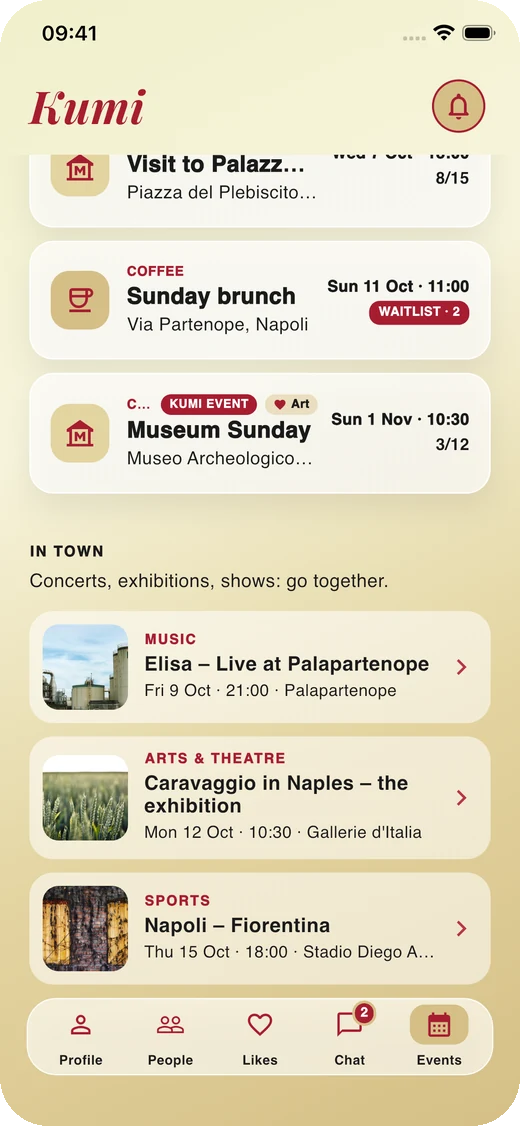
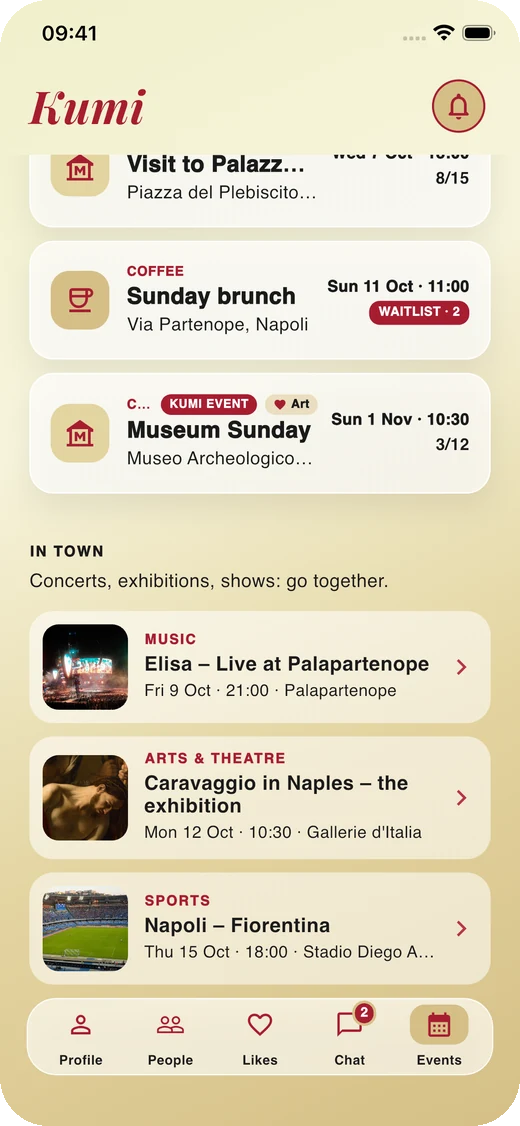
Sito: lo scatto «In città» con foto vere e coerenti (concerto, quadro di Caravaggio, stadio) al posto dei segnaposto; la demo usa le stesse foto

Changed region(s): [[0.0615, 0.5284, 0.2462, 0.746], [0.0615, 0.7771, 0.2462, 0.8703]]

diff --git a/index.html b/index.html
@@ -83,7 +83,7 @@
         <p class="note">In arrivo su iPhone e Android.</p>
       </div>
       <div class="phone glow">
-        <img src="assets/01_persone.webp?v=3" alt="La schermata Persone di Kumi: il profilo di Aurora, 27 anni, con il 92% di affinità" width="520" height="1126" fetchpriority="high">
+        <img src="assets/01_persone.webp?v=4" alt="La schermata Persone di Kumi: il profilo di Aurora, 27 anni, con il 92% di affinità" width="520" height="1126" fetchpriority="high">
       </div>
     </div>
   </section>
@@ -104,51 +104,51 @@
       <div class="shots">
         <div class="screens" aria-label="Le schermate di Kumi" tabindex="0">
           <figure class="screen">
-            <div class="phone strip"><img src="assets/01_persone.webp?v=3" alt="La schermata Persone: il profilo di Aurora con il 92% di affinità" width="520" height="1126" loading="lazy"></div>
+            <div class="phone strip"><img src="assets/01_persone.webp?v=4" alt="La schermata Persone: il profilo di Aurora con il 92% di affinità" width="520" height="1126" loading="lazy"></div>
             <figcaption><strong>Persone</strong>Profili della tua città con una percentuale di affinità, calcolata su interessi e modo di essere.</figcaption>
           </figure>
           <figure class="screen">
-            <div class="phone strip"><img src="assets/02_dettaglio.webp?v=3" alt="Il profilo di Aurora aperto: verificata, 92% affine, bio e interessi" width="520" height="1126" loading="lazy"></div>
+            <div class="phone strip"><img src="assets/02_dettaglio.webp?v=4" alt="Il profilo di Aurora aperto: verificata, 92% affine, bio e interessi" width="520" height="1126" loading="lazy"></div>
             <figcaption><strong>Il profilo</strong>Tocca una card per leggere bio e interessi. La spunta dice che è verificata.</figcaption>
           </figure>
           <figure class="screen">
-            <div class="phone strip"><img src="assets/03_like.webp?v=3" alt="La schermata Like: le ragazze che ti hanno messo like" width="520" height="1126" loading="lazy"></div>
+            <div class="phone strip"><img src="assets/03_like.webp?v=4" alt="La schermata Like: le ragazze che ti hanno messo like" width="520" height="1126" loading="lazy"></div>
             <figcaption><strong>Like</strong>Chi ti ha messo like, con i suoi interessi. Ricambi e si apre la chat.</figcaption>
           </figure>
           <figure class="screen">
-            <div class="phone strip"><img src="assets/04_chat.webp?v=3" alt="La schermata Chat con i match e le conversazioni" width="520" height="1126" loading="lazy"></div>
+            <div class="phone strip"><img src="assets/04_chat.webp?v=4" alt="La schermata Chat con i match e le conversazioni" width="520" height="1126" loading="lazy"></div>
             <figcaption><strong>Chat</strong>Le nuove amiche in alto, le conversazioni sotto, con i messaggi da leggere.</figcaption>
           </figure>
           <figure class="screen">
-            <div class="phone strip"><img src="assets/05_conversazione.webp?v=3" alt="Una conversazione su Kumi per organizzare un pomeriggio insieme" width="520" height="1126" loading="lazy"></div>
+            <div class="phone strip"><img src="assets/05_conversazione.webp?v=4" alt="Una conversazione su Kumi per organizzare un pomeriggio insieme" width="520" height="1126" loading="lazy"></div>
             <figcaption><strong>Conversazione</strong>Foto, vocali, GIF: quello che serve per decidere dove e quando.</figcaption>
           </figure>
           <figure class="screen">
-            <div class="phone strip"><img src="assets/06_eventi.webp?v=3" alt="La schermata Eventi: un aperitivo al tramonto sul lungomare di Napoli, con l'avviso di un posto da confermare" width="520" height="1126" loading="lazy"></div>
+            <div class="phone strip"><img src="assets/06_eventi.webp?v=4" alt="La schermata Eventi: un aperitivo al tramonto sul lungomare di Napoli, con l'avviso di un posto da confermare" width="520" height="1126" loading="lazy"></div>
             <figcaption><strong>Eventi</strong>Il prossimo evento con la mappa e la chat del gruppo. Se c'è un posto da confermare, te lo ricorda subito.</figcaption>
           </figure>
           <figure class="screen">
-            <div class="phone strip"><img src="assets/10_davisitare.webp?v=3" alt="La sezione Da visitare con musei e monumenti, sopra gli altri eventi" width="520" height="1126" loading="lazy"></div>
+            <div class="phone strip"><img src="assets/10_davisitare.webp?v=4" alt="La sezione Da visitare con musei e monumenti, sopra gli altri eventi" width="520" height="1126" loading="lazy"></div>
             <figcaption><strong>Da visitare</strong>Musei, monumenti e luoghi da scoprire in città: scegli dove andare e organizza la visita insieme.</figcaption>
           </figure>
           <figure class="screen">
-            <div class="phone strip"><img src="assets/07_incitta.webp?v=3" alt="La sezione In città con concerti, mostre e partite" width="520" height="1126" loading="lazy"></div>
+            <div class="phone strip"><img src="assets/07_incitta.webp?v=4" alt="La sezione In città con concerti, mostre e partite" width="520" height="1126" loading="lazy"></div>
             <figcaption><strong>In città</strong>Concerti, mostre, spettacoli: trovi con chi andarci.</figcaption>
           </figure>
           <figure class="screen">
-            <div class="phone strip"><img src="assets/08_evento.webp?v=3" alt="Il dettaglio di un evento con la richiesta di confermare il posto" width="520" height="1126" loading="lazy"></div>
+            <div class="phone strip"><img src="assets/08_evento.webp?v=4" alt="Il dettaglio di un evento con la richiesta di confermare il posto" width="520" height="1126" loading="lazy"></div>
             <figcaption><strong>Conferma il posto</strong>Il giorno prima ti chiediamo di confermare: se non vieni, il posto va a un'altra ragazza.</figcaption>
           </figure>
           <figure class="screen">
-            <div class="phone strip"><img src="assets/11_posti.webp?v=3" alt="Un evento al completo con la lista d'attesa" width="520" height="1126" loading="lazy"></div>
+            <div class="phone strip"><img src="assets/11_posti.webp?v=4" alt="Un evento al completo con la lista d'attesa" width="520" height="1126" loading="lazy"></div>
             <figcaption><strong>Lista d'attesa</strong>Evento pieno? Ti metti in lista: se si libera un posto te lo offriamo e hai due ore per accettare.</figcaption>
           </figure>
           <figure class="screen">
-            <div class="phone strip"><img src="assets/12_idee.webp?v=3" alt="La schermata Crea evento con le idee pronte" width="520" height="1126" loading="lazy"></div>
+            <div class="phone strip"><img src="assets/12_idee.webp?v=4" alt="La schermata Crea evento con le idee pronte" width="520" height="1126" loading="lazy"></div>
             <figcaption><strong>Crea un evento</strong>Parti da un'idea pronta (studio, passeggiata, caffè) o scrivi la tua: il resto lo compiliamo noi.</figcaption>
           </figure>
           <figure class="screen">
-            <div class="phone strip"><img src="assets/09_profilo.webp?v=3" alt="Il profilo di Sofia con la spunta verificata" width="520" height="1126" loading="lazy"></div>
+            <div class="phone strip"><img src="assets/09_profilo.webp?v=4" alt="Il profilo di Sofia con la spunta verificata" width="520" height="1126" loading="lazy"></div>
             <figcaption><strong>Il tuo profilo</strong>Foto, interessi, lingue e le tue sfumature. La spunta dice alle altre che sei davvero tu.</figcaption>
           </figure>
         </div>

diff --git a/en/index.html b/en/index.html
@@ -72,7 +72,7 @@
         <p class="note">Coming to iPhone and Android.</p>
       </div>
       <div class="phone glow">
-        <img src="../assets/en/01_persone.webp?v=3" alt="Kumi's People screen: Aurora's profile, 27, 92% affinity" width="520" height="1126" fetchpriority="high">
+        <img src="../assets/en/01_persone.webp?v=4" alt="Kumi's People screen: Aurora's profile, 27, 92% affinity" width="520" height="1126" fetchpriority="high">
       </div>
     </div>
   </section>
@@ -93,51 +93,51 @@
       <div class="shots">
         <div class="screens" aria-label="Kumi's screens" tabindex="0">
           <figure class="screen">
-            <div class="phone strip"><img src="../assets/en/01_persone.webp?v=3" alt="The People screen: Aurora's profile with 92% affinity" width="520" height="1126" loading="lazy"></div>
+            <div class="phone strip"><img src="../assets/en/01_persone.webp?v=4" alt="The People screen: Aurora's profile with 92% affinity" width="520" height="1126" loading="lazy"></div>
             <figcaption><strong>People</strong>Profiles from your city with an affinity score, based on interests and personality.</figcaption>
           </figure>
           <figure class="screen">
-            <div class="phone strip"><img src="../assets/en/02_dettaglio.webp?v=3" alt="Aurora's profile opened: verified, 92% in tune, bio and interests" width="520" height="1126" loading="lazy"></div>
+            <div class="phone strip"><img src="../assets/en/02_dettaglio.webp?v=4" alt="Aurora's profile opened: verified, 92% in tune, bio and interests" width="520" height="1126" loading="lazy"></div>
             <figcaption><strong>Her profile</strong>Tap a card to read her bio and interests. The badge says she's verified.</figcaption>
           </figure>
           <figure class="screen">
-            <div class="phone strip"><img src="../assets/en/03_like.webp?v=3" alt="The Likes screen: the women who liked you" width="520" height="1126" loading="lazy"></div>
+            <div class="phone strip"><img src="../assets/en/03_like.webp?v=4" alt="The Likes screen: the women who liked you" width="520" height="1126" loading="lazy"></div>
             <figcaption><strong>Likes</strong>Who liked you, with her interests. Like her back and the chat opens.</figcaption>
           </figure>
           <figure class="screen">
-            <div class="phone strip"><img src="../assets/en/04_chat.webp?v=3" alt="The Chat screen with your matches and conversations" width="520" height="1126" loading="lazy"></div>
+            <div class="phone strip"><img src="../assets/en/04_chat.webp?v=4" alt="The Chat screen with your matches and conversations" width="520" height="1126" loading="lazy"></div>
             <figcaption><strong>Chat</strong>New friends at the top, conversations below, with your unread messages.</figcaption>
           </figure>
           <figure class="screen">
-            <div class="phone strip"><img src="../assets/en/05_conversazione.webp?v=3" alt="A conversation on Kumi planning an afternoon together" width="520" height="1126" loading="lazy"></div>
+            <div class="phone strip"><img src="../assets/en/05_conversazione.webp?v=4" alt="A conversation on Kumi planning an afternoon together" width="520" height="1126" loading="lazy"></div>
             <figcaption><strong>Conversation</strong>Photos, voice notes, GIFs: everything you need to decide where and when.</figcaption>
           </figure>
           <figure class="screen">
-            <div class="phone strip"><img src="../assets/en/06_eventi.webp?v=3" alt="The Events screen: drinks at sunset on the Naples seafront, with a notice about a spot to confirm" width="520" height="1126" loading="lazy"></div>
+            <div class="phone strip"><img src="../assets/en/06_eventi.webp?v=4" alt="The Events screen: drinks at sunset on the Naples seafront, with a notice about a spot to confirm" width="520" height="1126" loading="lazy"></div>
             <figcaption><strong>Events</strong>The next event with its map and the group chat. If a spot needs confirming, it reminds you right here.</figcaption>
           </figure>
           <figure class="screen">
-            <div class="phone strip"><img src="../assets/en/10_davisitare.webp?v=3" alt="The Worth a visit section with museums and landmarks above the other events" width="520" height="1126" loading="lazy"></div>
+            <div class="phone strip"><img src="../assets/en/10_davisitare.webp?v=4" alt="The Worth a visit section with museums and landmarks above the other events" width="520" height="1126" loading="lazy"></div>
             <figcaption><strong>Worth a visit</strong>Museums, landmarks and places to discover in your city: pick where to go and plan the visit together.</figcaption>
           </figure>
           <figure class="screen">
-            <div class="phone strip"><img src="../assets/en/07_incitta.webp?v=3" alt="The In town section with concerts, exhibitions and matches" width="520" height="1126" loading="lazy"></div>
+            <div class="phone strip"><img src="../assets/en/07_incitta.webp?v=4" alt="The In town section with concerts, exhibitions and matches" width="520" height="1126" loading="lazy"></div>
             <figcaption><strong>In town</strong>Concerts, exhibitions, shows: find someone to go with.</figcaption>
           </figure>
           <figure class="screen">
-            <div class="phone strip"><img src="../assets/en/08_evento.webp?v=3" alt="An event page asking you to confirm your spot" width="520" height="1126" loading="lazy"></div>
+            <div class="phone strip"><img src="../assets/en/08_evento.webp?v=4" alt="An event page asking you to confirm your spot" width="520" height="1126" loading="lazy"></div>
             <figcaption><strong>Confirm your spot</strong>The day before, we ask you to confirm: if you can't come, the spot goes to someone else.</figcaption>
           </figure>
           <figure class="screen">
-            <div class="phone strip"><img src="../assets/en/11_posti.webp?v=3" alt="A full event with the waitlist" width="520" height="1126" loading="lazy"></div>
+            <div class="phone strip"><img src="../assets/en/11_posti.webp?v=4" alt="A full event with the waitlist" width="520" height="1126" loading="lazy"></div>
             <figcaption><strong>Waitlist</strong>Event full? Join the waitlist: if a spot opens up we offer it to you, and you have two hours to accept.</figcaption>
           </figure>
           <figure class="screen">
-            <div class="phone strip"><img src="../assets/en/12_idee.webp?v=3" alt="The Create event screen with ready-made ideas" width="520" height="1126" loading="lazy"></div>
+            <div class="phone strip"><img src="../assets/en/12_idee.webp?v=4" alt="The Create event screen with ready-made ideas" width="520" height="1126" loading="lazy"></div>
             <figcaption><strong>Create an event</strong>Start from a ready-made idea (study, walk, coffee) or write your own: we fill in the rest.</figcaption>
           </figure>
           <figure class="screen">
-            <div class="phone strip"><img src="../assets/en/09_profilo.webp?v=3" alt="Sofia's profile with the verified badge" width="520" height="1126" loading="lazy"></div>
+            <div class="phone strip"><img src="../assets/en/09_profilo.webp?v=4" alt="Sofia's profile with the verified badge" width="520" height="1126" loading="lazy"></div>
             <figcaption><strong>Your profile</strong>Photos, interests, languages and your shades. The badge tells the others it's really you.</figcaption>
           </figure>
         </div>
